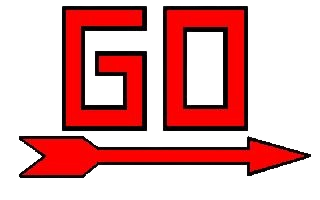
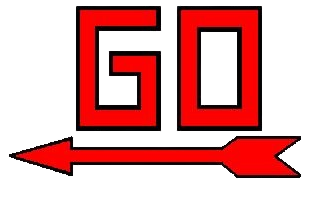
feat: add clear image button for dice faces + update GO asset
Add missing "Clear Face Image" button to the dice form, so users can
remove a custom face image. All image upload forms now have clear
functionality. Also update the GO arrow asset.

diff --git a/src/components/Dice.js b/src/components/Dice.js
@@ -15,6 +15,7 @@ export function renderDiceForm(container) {
       <div class="form-group" style="margin-bottom: 20px;">
         <label>Upload Image for Selected Face (<span id="active-face-label">${dice.activeFaceIndex !== null ? dice.activeFaceIndex + 1 : 'None Selected'}</span>)</label>
         <input type="file" id="dice-img-upload" accept="image/*" ${dice.activeFaceIndex === null ? 'disabled' : ''} />
+        <button id="dice-clear-img" class="btn-secondary" style="margin-top:5px; display:${dice.activeFaceIndex !== null && dice.faces[dice.activeFaceIndex] ? 'block' : 'none'}">Clear Face Image</button>
       </div>
 
       <div id="image-toolbar-container" style="display: none">
@@ -35,6 +36,15 @@ export function renderDiceForm(container) {
       };
       reader.readAsDataURL(file);
       e.target.value = ''; // Reset
+    }
+  });
+
+  document.getElementById('dice-clear-img').addEventListener('click', () => {
+    const { activeFaceIndex } = appState.assetData.dice;
+    if (activeFaceIndex !== null) {
+      appState.assetData.dice.faces[activeFaceIndex] = null;
+      appState.publish('dice_updated', appState.assetData.dice);
+      renderDiceForm(container);
     }
   });
 
